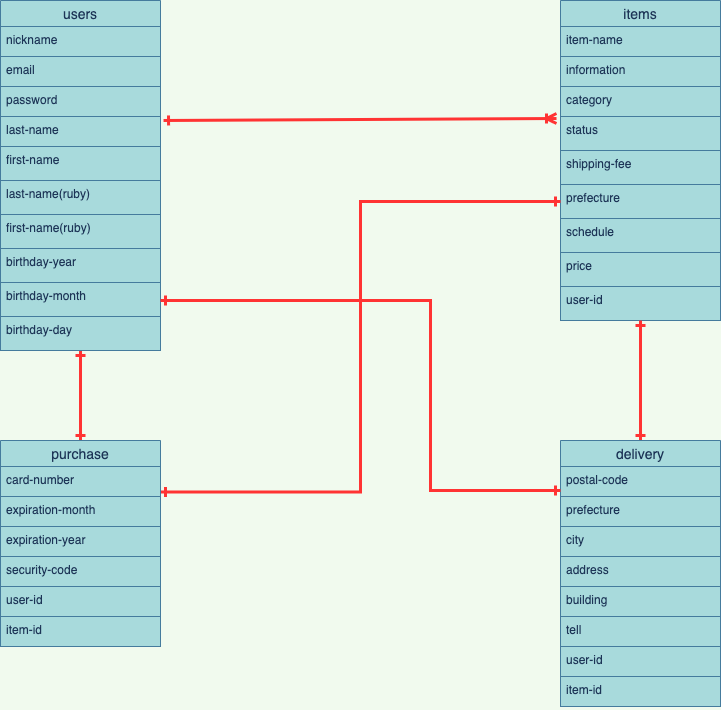
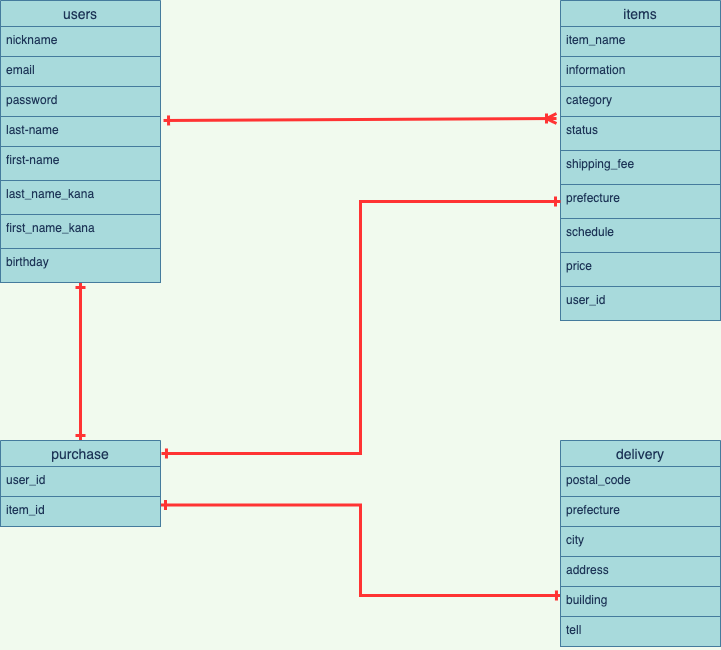
修正

Changed region(s): [[0.0, 0.0, 1.0, 1.0], [0.0915, 0.0, 0.1526, 0.0308]]

diff --git a/README.md b/README.md
@@ -2,36 +2,31 @@
 
 ## users テーブル
 
-| Column            | Type   | Options     |
-| ----------------- | ------ | ----------- |
-| nickname          | string | null: false |
-| email             | string | null: false |
-| password          | string | null: false |
-| last-name         | string | null: false |
-| first-name        | string | null: false |
-| last-name(ruby)   | string | null: false |
-| first-name(ruby)  | string | null: false |
-| birthday-year     | string | null: false |
-| birthday-month    | string | null: false |
-| birthday-day      | string | null: false |
+| Column          | Type   | Options     |
+| --------------- | ------ | ----------- |
+| nickname        | string | null: false |
+| email           | string | null: false |
+| password        | string | null: false |
+| last_name       | string | null: false |
+| first_name      | string | null: false |
+| last_name_kana  | string | null: false |
+| first_name_kana | string | null: false |
+| birthday        | date   | null: false |
 
 ### Association
 
 - has_many :items
 - has_one  :purchase
-- has_one  :delivery
-- has_one  :comment
-
 
 ## items テーブル
 
 | Column       | Type          | Options     |
 | ------------ | ------------- | ----------- |
-| item-name    | string        | null: false |
+| item_name    | string        | null: false |
 | information  | text          | null: false |
 | category     | string        | null: false |
 | status       | string        | null: false |
-| shipping-fee | string        | null: false |
+| shipping_fee | string        | null: false |
 | prefecture   | string        | null: false |
 | schedule     | string        | null: false |
 | price        | integer       | null: false |
@@ -41,17 +36,11 @@
 
 - belongs_to :user
 - has_one  :purchase
-- has_one  :delivery
-- has_one  :comment
 
 ## purchase テーブル
 
 | Column           | Type       | Options     |
 | ---------------- | ---------- | ----------- |
-| card-number      | integer    | null: false |
-| expiration-month | integer    | null: false |
-| expiration-year  | integer    | null: false |
-| security-code    | integer    | null: false |
 | user             | references |             |
 | item             | references |             |
 
@@ -59,21 +48,19 @@
 
 - belongs_to :user
 - belongs_to :item
+- has_one :delivery
 
 ## delivery テーブル
 
 | Column      | Type       | Options     |
 | ----------- | ---------- | ----------- |
-| postal-code | integer    | null: false |
+| postal_code | string     | null: false |
 | prefecture  | string     | null: false |
 | city        | string     | null: false |
 | address     | string     | null: false |
 | building    | string     |             |
 | tell        | integer    | null: false |
-| user        | references |             |
-| item        | references |             |
 
 ### Association
 
-- belongs_to :user
-- belongs_to :item
+- belongs_to :purchase
